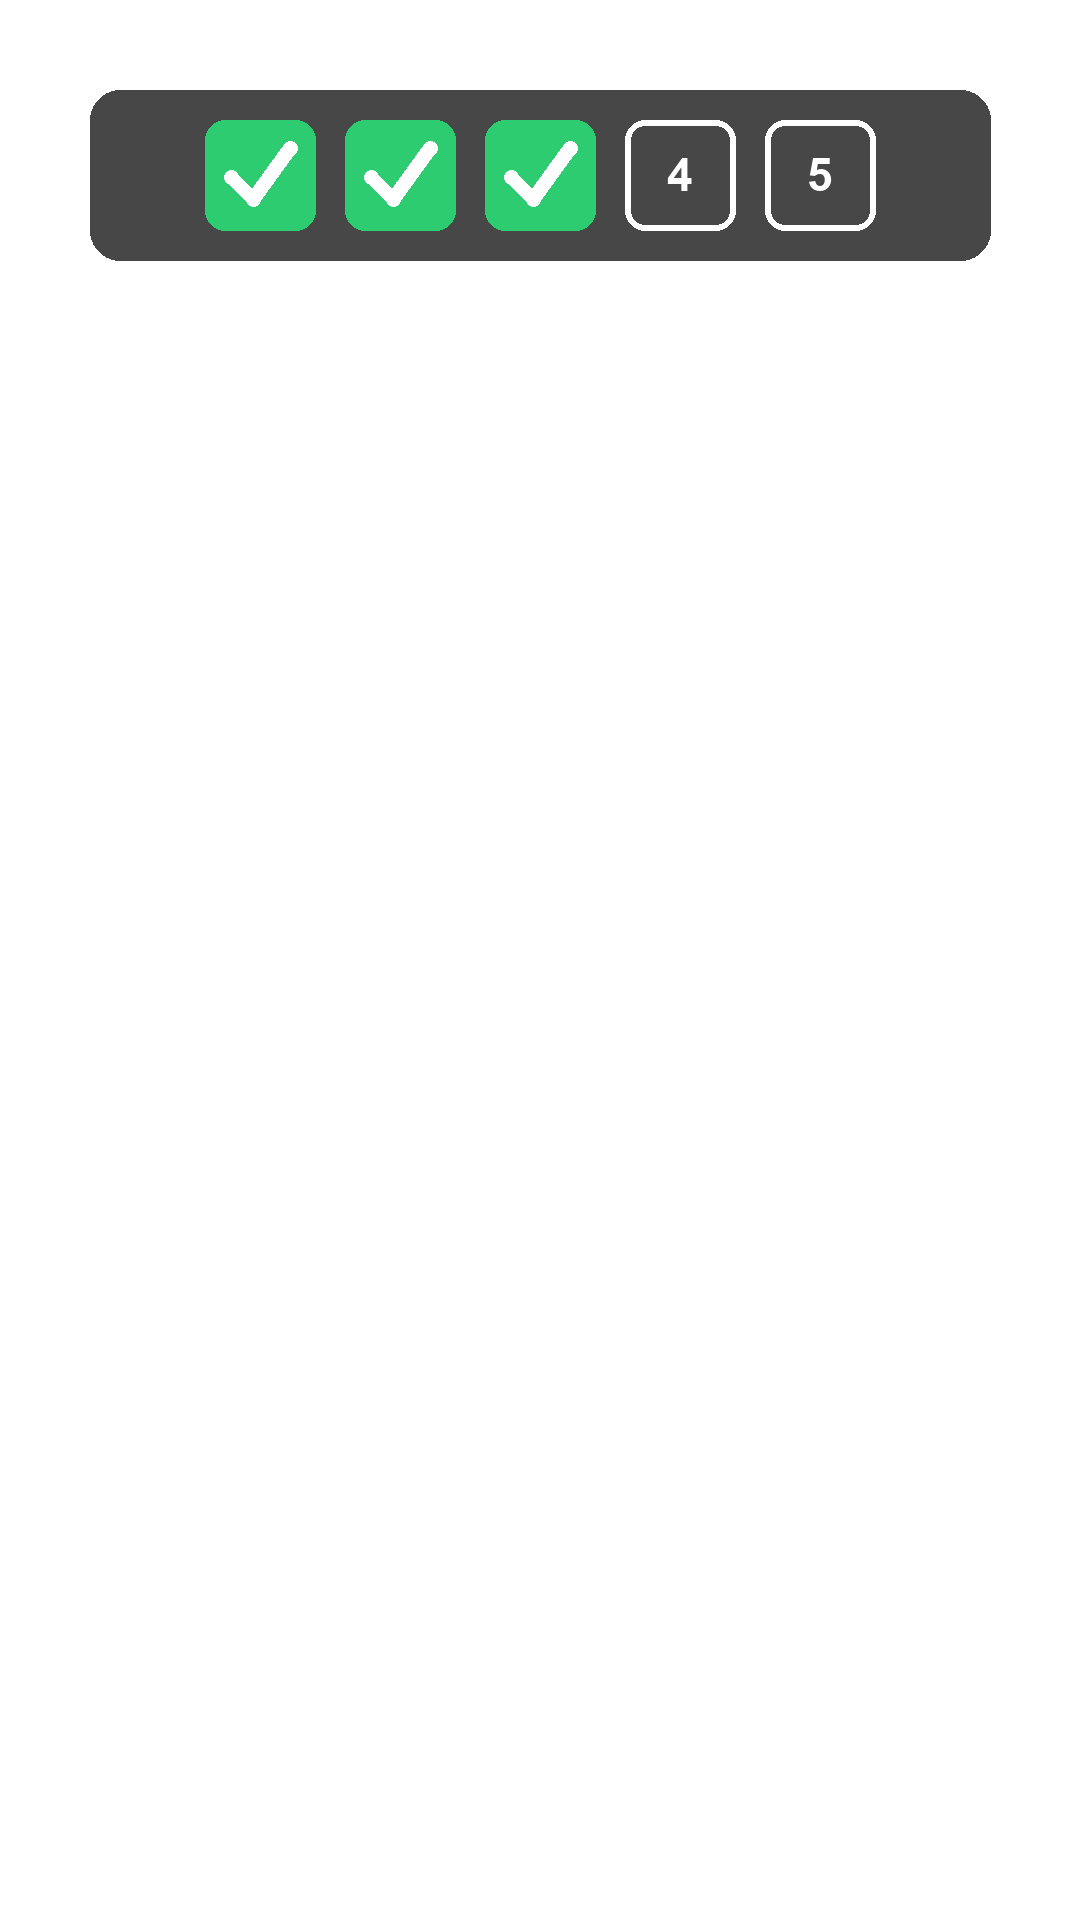
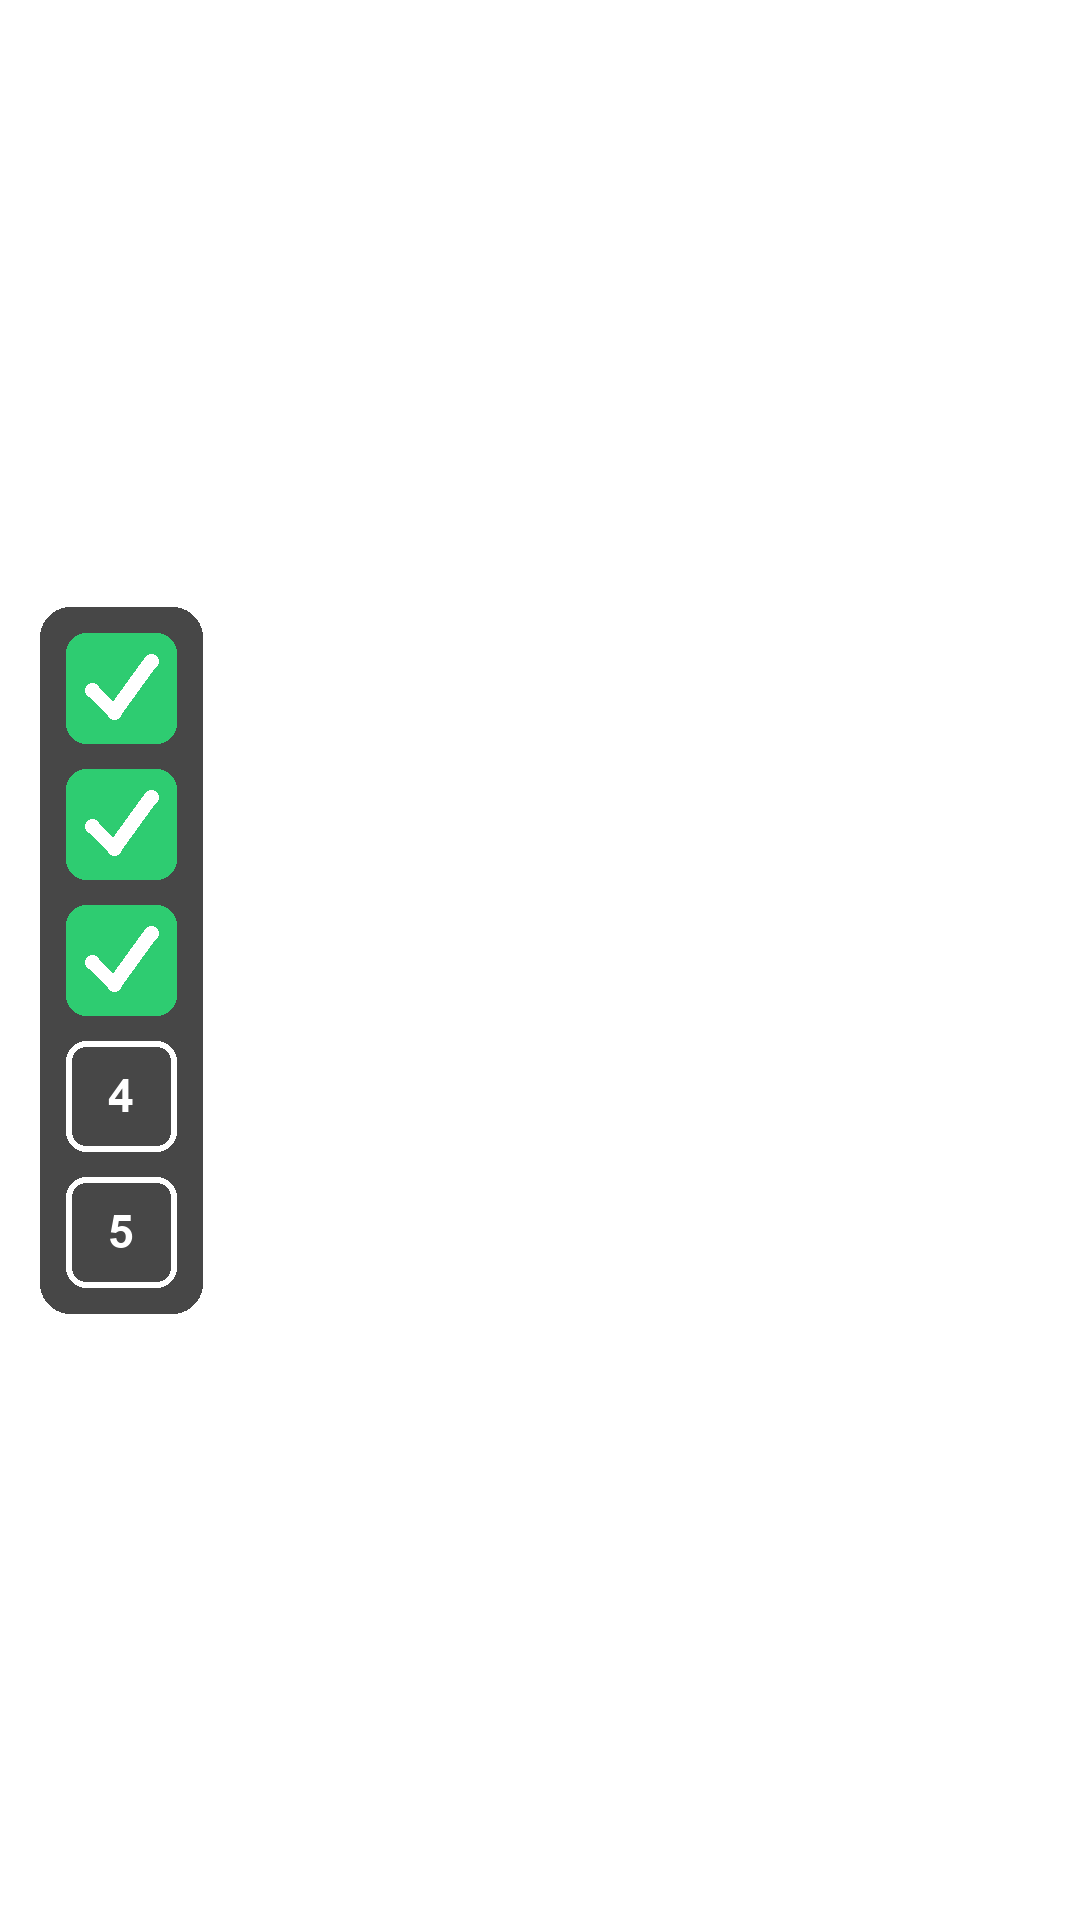
Rework satisfying-render overlays per user feedback
- Checklist: vertical sidebar on the left (was horizontal top bar),
  and now stays visible for each clip's entire screen time instead of
  popping in for 1.6s then disappearing.
- Subscribe reminder: moved to the first 5 seconds (was the temporal
  midpoint), now in English, and added a two-frame mouse-click
  animation (cursor hover -> click ripple) with its own click SFX
  synced to the click moment.
- Click SFX replaced: was a 1400Hz sine blip (read as a "beep"), now a
  sharp high-passed noise transient that reads as an actual mouse click.

Changed region(s): [[0.0611, 0.0312, 0.9167, 0.1562], [0.0306, 0.3125, 0.2139, 0.6875]]

diff --git a/app.py b/app.py
@@ -573,8 +573,9 @@ def story_thumbnail(req: ThumbnailRequest, x_api_key: str = Header(default="")):
 
 ASSETS_DIR = "/app/assets"
 SATISFYING_CLIP_SECONDS = 14.0
-CHECKLIST_DISPLAY_SECONDS = 1.6
-SUBSCRIBE_DISPLAY_SECONDS = 2.5
+SUBSCRIBE_START_SECONDS = 2.0
+SUBSCRIBE_NORMAL_SECONDS = 1.2
+SUBSCRIBE_CLICKED_SECONDS = 1.0
 
 SATISFYING_JOBS: dict = {}
 
@@ -623,31 +624,46 @@ def _trim_and_reframe_clip(src_path: str, out_path: str) -> float:
 
 
 def _build_satisfying_filter(cum_times: list[float], total_duration: float, n_clips: int) -> str:
+    # Checklist: box i stays visible for that clip's entire screen time (not a brief
+    # pop-in), as a persistent vertical sidebar -- the actual position/orientation
+    # lives in the checklist_N.png assets themselves, this just controls timing.
     filter_parts = []
     prev_label = "0:v"
     for i in range(n_clips):
         t0 = cum_times[i]
+        t1 = cum_times[i + 1] if i + 1 < n_clips else total_duration
         out_label = f"v{i + 1}"
         filter_parts.append(
-            f"[{prev_label}][{i + 1}:v]overlay=x=0:y=0:enable='between(t,{t0:.2f},{t0 + CHECKLIST_DISPLAY_SECONDS:.2f})'[{out_label}]"
+            f"[{prev_label}][{i + 1}:v]overlay=x=0:y=0:enable='between(t,{t0:.2f},{t1:.2f})'[{out_label}]"
         )
         prev_label = out_label
 
-    subscribe_idx = n_clips + 1
-    sub_t = max(0.0, total_duration / 2 - SUBSCRIBE_DISPLAY_SECONDS / 2)
+    # Subscribe reminder: appears within the first 5s -- normal state, then a
+    # "clicked" state (cursor + ripple) timed with the click SFX below.
+    normal_idx = n_clips + 1
+    clicked_idx = n_clips + 2
+    t_normal_start = SUBSCRIBE_START_SECONDS
+    t_click = t_normal_start + SUBSCRIBE_NORMAL_SECONDS
+    t_clicked_end = t_click + SUBSCRIBE_CLICKED_SECONDS
     filter_parts.append(
-        f"[{prev_label}][{subscribe_idx}:v]overlay=x=0:y=0:enable='between(t,{sub_t:.2f},{sub_t + SUBSCRIBE_DISPLAY_SECONDS:.2f})'[vout]"
+        f"[{prev_label}][{normal_idx}:v]overlay=x=0:y=0:enable='between(t,{t_normal_start:.2f},{t_click:.2f})'[vsub1]"
+    )
+    filter_parts.append(
+        f"[vsub1][{clicked_idx}:v]overlay=x=0:y=0:enable='between(t,{t_click:.2f},{t_clicked_end:.2f})'[vout]"
     )
 
-    click_idx = subscribe_idx + 1
+    click_idx = clicked_idx + 1
     whoosh_idx = click_idx + 1
     audio_parts = []
 
-    click_labels = [f"[click{i}]" for i in range(n_clips)]
-    audio_parts.append(f"[{click_idx}:a]asplit={n_clips}" + "".join(click_labels))
+    # One click SFX per clip-start (checklist tick) plus one more for the subscribe click.
+    click_times = list(cum_times[:n_clips]) + [t_click]
+    n_clicks = len(click_times)
+    click_labels = [f"[click{i}]" for i in range(n_clicks)]
+    audio_parts.append(f"[{click_idx}:a]asplit={n_clicks}" + "".join(click_labels))
     click_delayed = []
-    for i in range(n_clips):
-        ms = int(cum_times[i] * 1000)
+    for i, t in enumerate(click_times):
+        ms = int(t * 1000)
         audio_parts.append(f"[click{i}]adelay={ms}|{ms}[clickd{i}]")
         click_delayed.append(f"[clickd{i}]")
 
@@ -703,7 +719,8 @@ def _run_satisfying_job(job_id: str, req: "SatisfyingRenderRequest") -> None:
         cmd = ["ffmpeg", "-y", "-i", combined_path]
         for i in range(1, 6):
             cmd += ["-loop", "1", "-i", os.path.join(ASSETS_DIR, f"checklist_{i}.png")]
-        cmd += ["-loop", "1", "-i", os.path.join(ASSETS_DIR, "subscribe.png")]
+        cmd += ["-loop", "1", "-i", os.path.join(ASSETS_DIR, "subscribe_normal.png")]
+        cmd += ["-loop", "1", "-i", os.path.join(ASSETS_DIR, "subscribe_clicked.png")]
         cmd += ["-i", os.path.join(ASSETS_DIR, "click.m4a")]
         cmd += ["-i", os.path.join(ASSETS_DIR, "whoosh.m4a")]
         cmd += [
